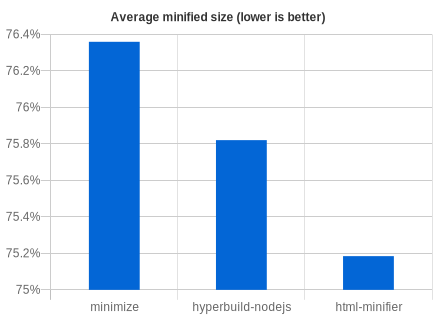
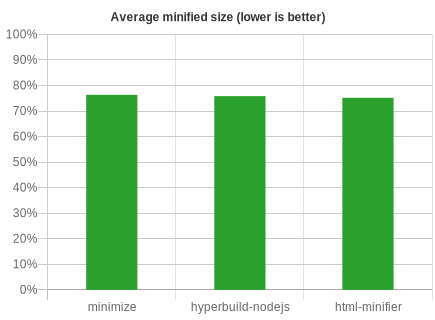
Improve graphs

diff --git a/bench/graph.js b/bench/graph.js
@@ -34,6 +34,8 @@ const chartOptions = (title, displayLegend, yTick = t => t) => ({
           color: '#ccc',
         },
         ticks: {
+          min: 0,
+          max: 1,
           callback: yTick,
           fontColor: '#666',
         },
@@ -77,7 +79,7 @@ const renderChart = async (file, cfg) => {
       // Include it this if this situation changes.
       datasets: [{
         label: 'Average relative OP/s',
-        backgroundColor: '#0366d6',
+        backgroundColor: '#1f77b4',
         data: speedData.map(([_, v]) => v),
       }],
     },
@@ -99,7 +101,7 @@ const renderChart = async (file, cfg) => {
       labels: sizeData.map(([n]) => n),
       datasets: [{
         label: 'Average minified size',
-        backgroundColor: '#0366d6',
+        backgroundColor: '#2ca02c',
         data: sizeData.map(([_, v]) => v),
       }],
     },
